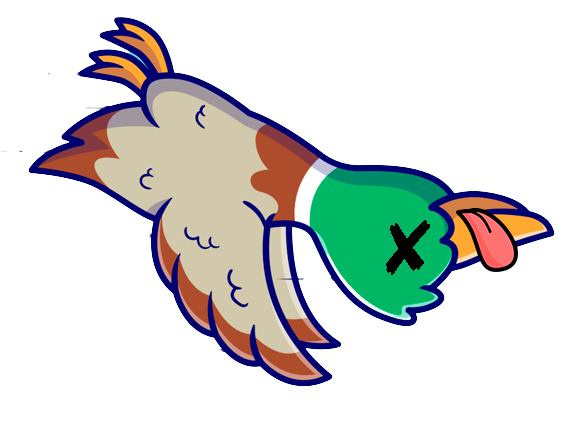
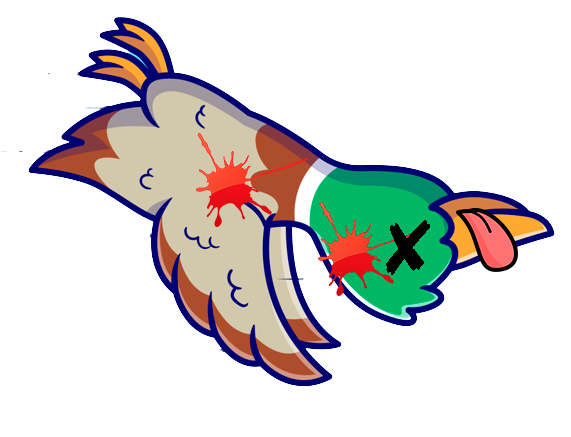
new dead duck img and velocity

diff --git a/app/scripts/main.ts b/app/scripts/main.ts
@@ -45,7 +45,7 @@ function moveDuck() {
         duck.style.left = (posX - duckHalfWidth) + 'px';
         duck.style.top = posY + 'px';
     } else {
-        posY += 5; // Move duck vertically downwards
+        posY += 10; // Move duck vertically downwards
         duck.style.top = posY + 'px';
 
         // Check if the duck has reached the bottom of the container
